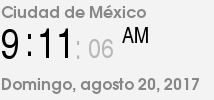
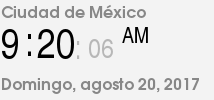
update images 20-08-2017 09:20

Changed region(s): [[0.1682, 0.27, 0.3645, 0.6]]

diff --git a/README.md b/README.md
@@ -12947,3 +12947,4 @@
 |20-08-2017 08:50
 |20-08-2017 09:03
 |20-08-2017 09:11
+|20-08-2017 09:20
